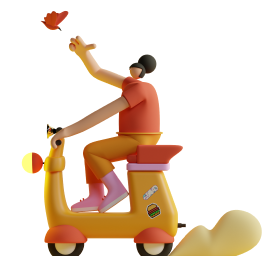
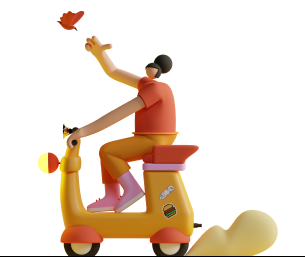
png deco

diff --git a/components/auth/login/page.tsx b/components/auth/login/page.tsx
@@ -5,6 +5,7 @@ import React, { useState } from "react";
 import Image from "next/image";
 import ForgotPasswordModal from "../components/modals/ForgotPasswordModal";
 import IconEyeClose from "@/components/icon/icon-eyeClose";
+import IconBolt from "@/components/icon/icon-bolt";
 
 const Login = () => {
     const router = useRouter();
@@ -44,16 +45,6 @@ const Login = () => {
 
     return (
         <div className="flex h-screen items-center justify-center relative overflow-hidden">
-            {/* Dividing the page into two sections */}
-            <div className="absolute inset-0 flex">
-                <div className="w-1/2 bg-[#FFDFBD] flex items-center justify-center relative">
-                    {/* Left animated SVGs or images */}
-                </div>
-                <div className="w-1/2 bg-[#F07D00] flex items-center justify-center relative">
-                    {/* Right animated SVGs or images */}
-                </div>
-            </div>
-
             {/* Logo at the top left */}
             <div className="absolute top-5 left-5 z-10">
                 <Image
@@ -64,10 +55,40 @@ const Login = () => {
                     className="h-12 w-auto"
                 />
             </div>
+            {/* Dividing the page into two sections */}
+            <div className="absolute inset-0 flex">
+                <div className="w-1/2 bg-[#FFDFBD] flex items-center justify-center relative">
+                    <IconBolt></IconBolt>
+                    <div className="flex flex-col mb-8">
+                        <Image
+                            width={300}
+                            height={300}
+                            src="/assets/images/auth/envole.png" // Path to the logo
+                            alt="Logo"
+                        />
+                        <Image
+                            width={269}
+                            height={256}
+                            src="/assets/images/auth/scooter.png" // Path to the logo
+                            alt="Logo"
+                        />
+                    </div>
+
+                </div>
+                <div className="w-1/2 bg-[#FFFEF9] flex items-center justify-center relative">
+                    <Image
+                        width={450}
+                        height={450}
+                        src="/assets/images/auth/float.png" // Path to the logo
+                        alt="Logo"
+                    />
+                    {/* <IconBolt></IconBolt> */}
+                </div>
+            </div>
 
             {/* Login box with conditional padding */}
             <div
-                className={`relative z-20 w-full max-w-lg bg-white rounded-[30px] shadow-xl p-8 ${isSmallScreen ? "mx-4" : ""
+                className={`relative z-20 w-full max-w-md bg-white rounded-[30px] shadow-xl p-8 ${isSmallScreen ? "mx-4" : ""
                     }`} // Adding 'mx-4' padding on small screens
             >
                 {/* Title and logo in the form */}

diff --git a/components/icon/bolt.tsx b/components/icon/bolt.tsx
@@ -1,0 +1,9 @@
+import React from 'react'
+
+export default function bolt() {
+    return (
+        <svg xmlns="http://www.w3.org/2000/svg" fill="none" viewBox="0 0 24 24" strokeWidth={1.5} stroke="currentColor" className="size-6">
+            <path strokeLinecap="round" strokeLinejoin="round" d="m3.75 13.5 10.5-11.25L12 10.5h8.25L9.75 21.75 12 13.5H3.75Z" />
+        </svg>
+    )
+}
